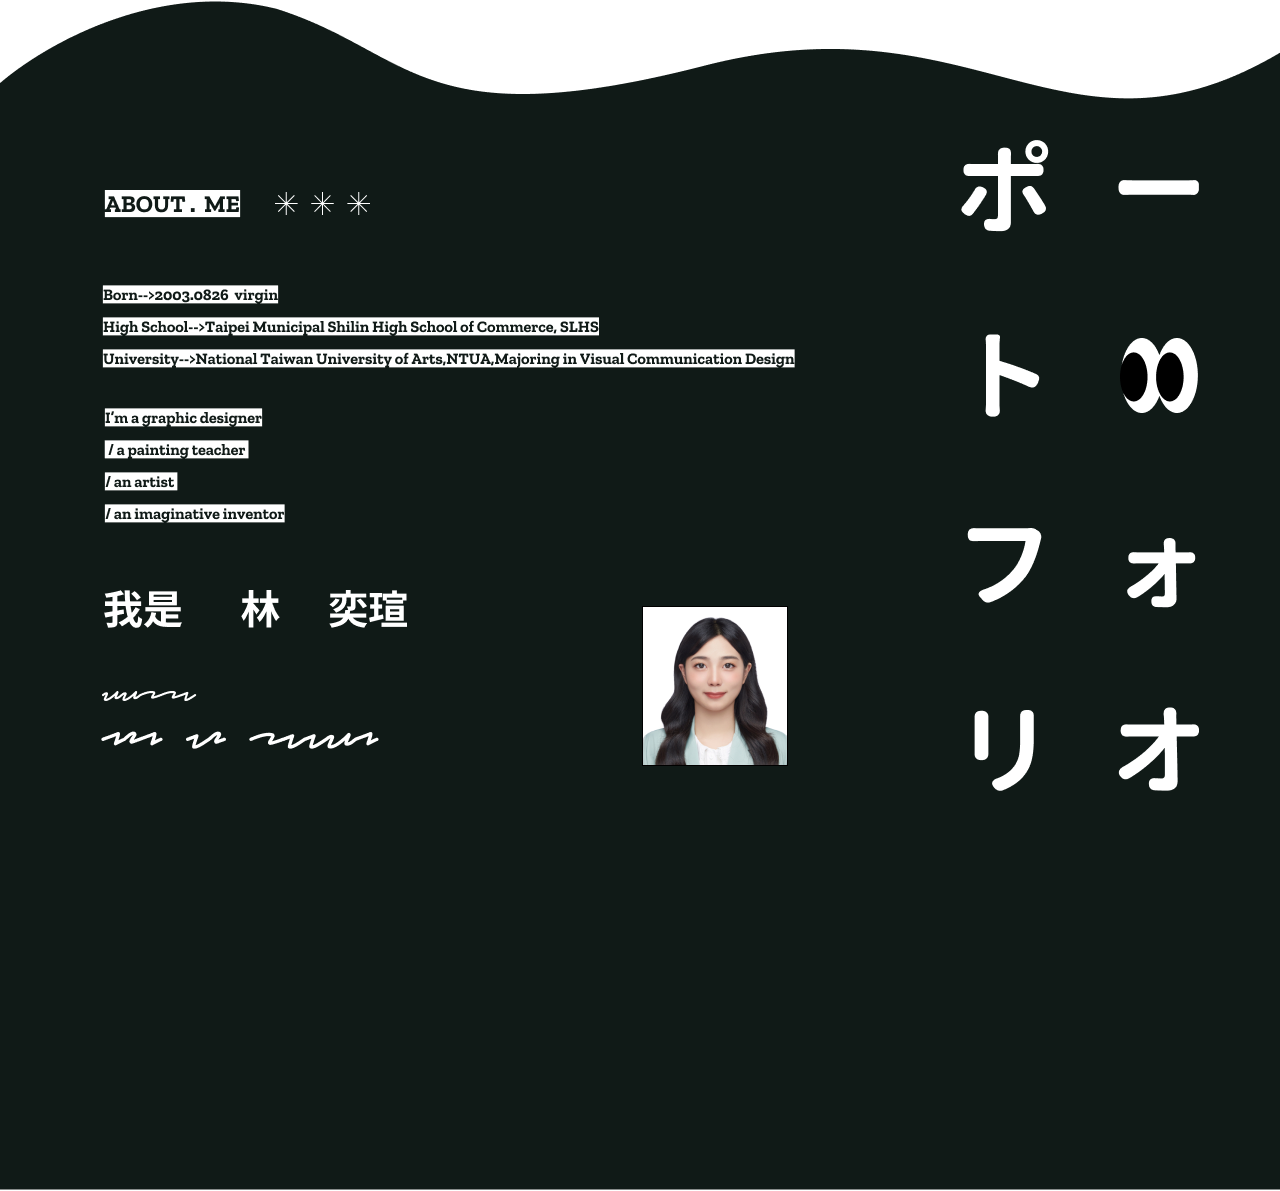
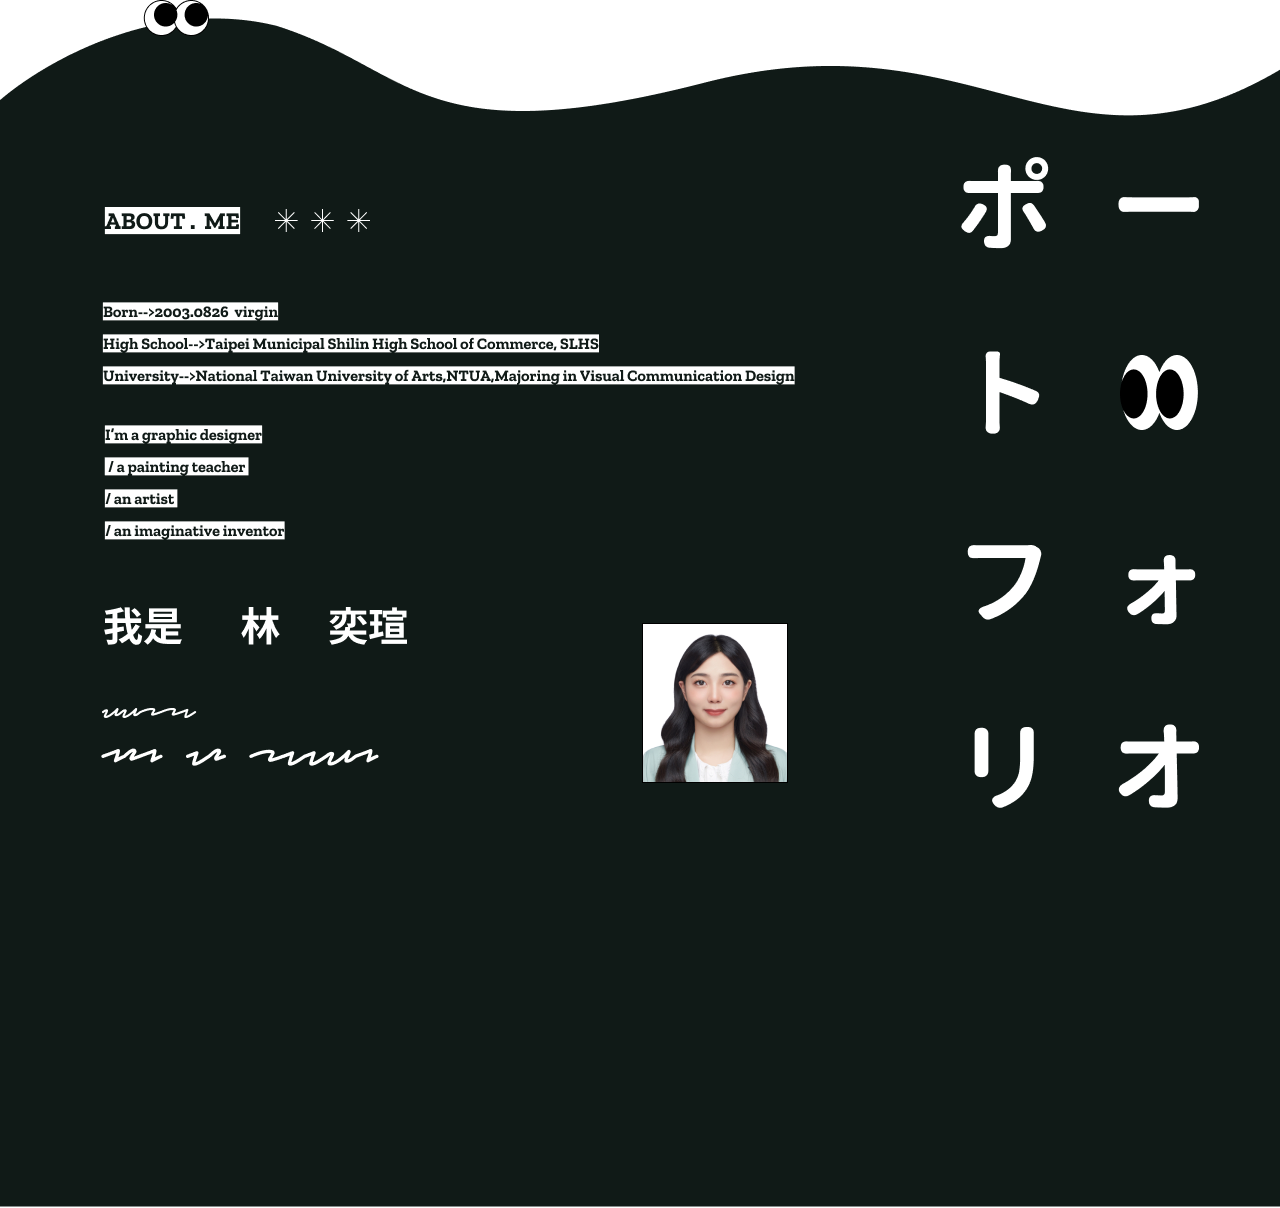
Add files via upload

diff --git a/index.htm b/index.htm
@@ -37,7 +37,7 @@
           <a href="https://www.instagram.com/betty0826cc/" class="green header-link">CONTACT</a>
         </li>
         <li class="header-item">
-          <img src="./img/_圖層_1.png" alt="star">
+          <img src="./img/star.png" alt="star">
         </li>
         <li class="header-hamburger">
           <div class="hamburger-middle"></div>
@@ -87,8 +87,8 @@
           <div><img src="./img/m1.jpg"></div>
           <div><img src="./img/m2.JPG"></div>
           <div><img src="./img/m3.jpg"></div>
-          <div><img src="./img/m1.jpg"></div>
-          <div><img src="./img/m2.JPG"></div>
+          <div><img src="./img/m4.jpg"></div>
+          <div><img src="./img/m5.jpg"></div>
 
         </div>
       </section>

diff --git a/style-2.css b/style-2.css
@@ -5,7 +5,7 @@ html {
     position: relative;
     height: 100vh;
     background-image: url('./img/main.JPG');
-    background-position: center -100px;
+    background-position: center -110px;
     background-repeat: no-repeat;
     background-size: cover;
 }
@@ -32,7 +32,7 @@ html {
     background-image: url('./img/section.png');
     background-size: cover;
     background-repeat: no-repeat;
-    margin-top: -108px;
+    margin-top: -128px;
 }
 .section-body-center {
     position: relative;
